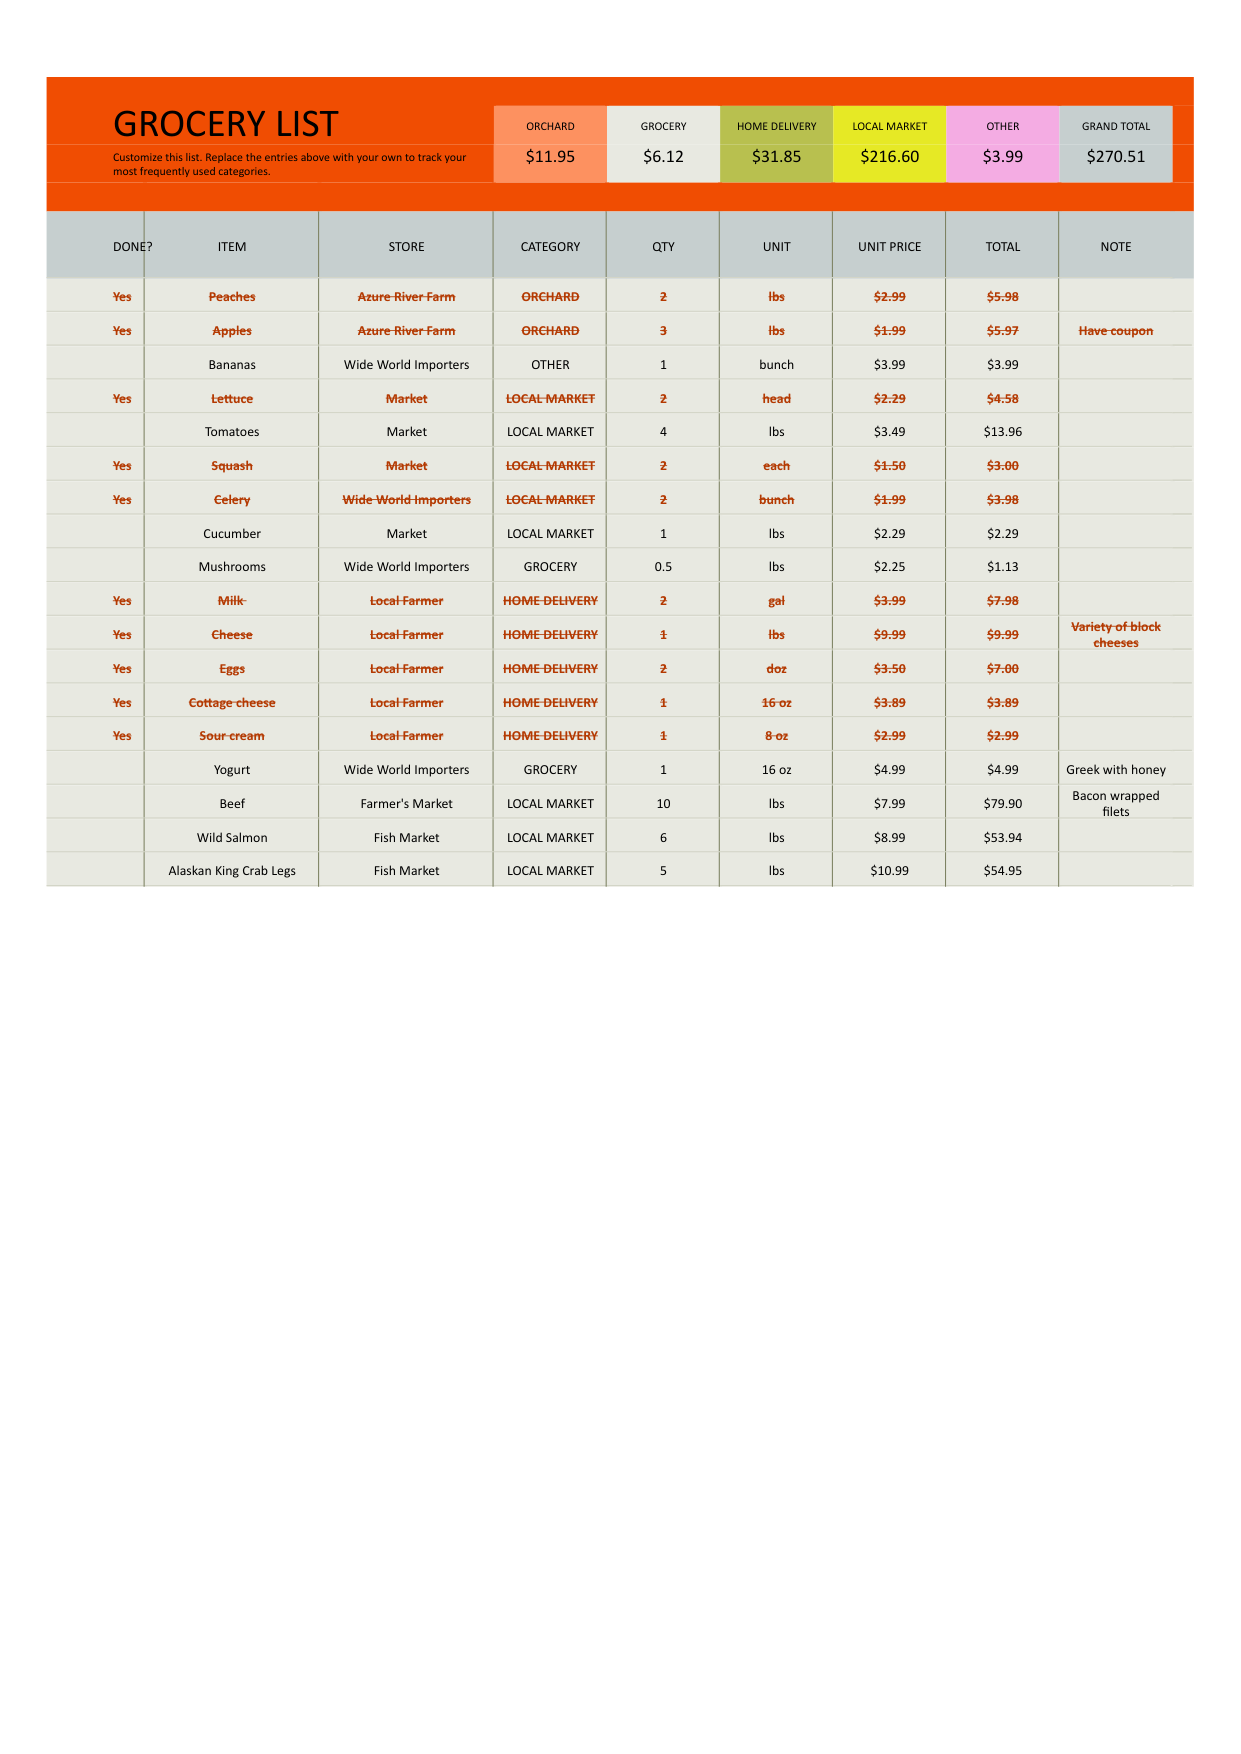
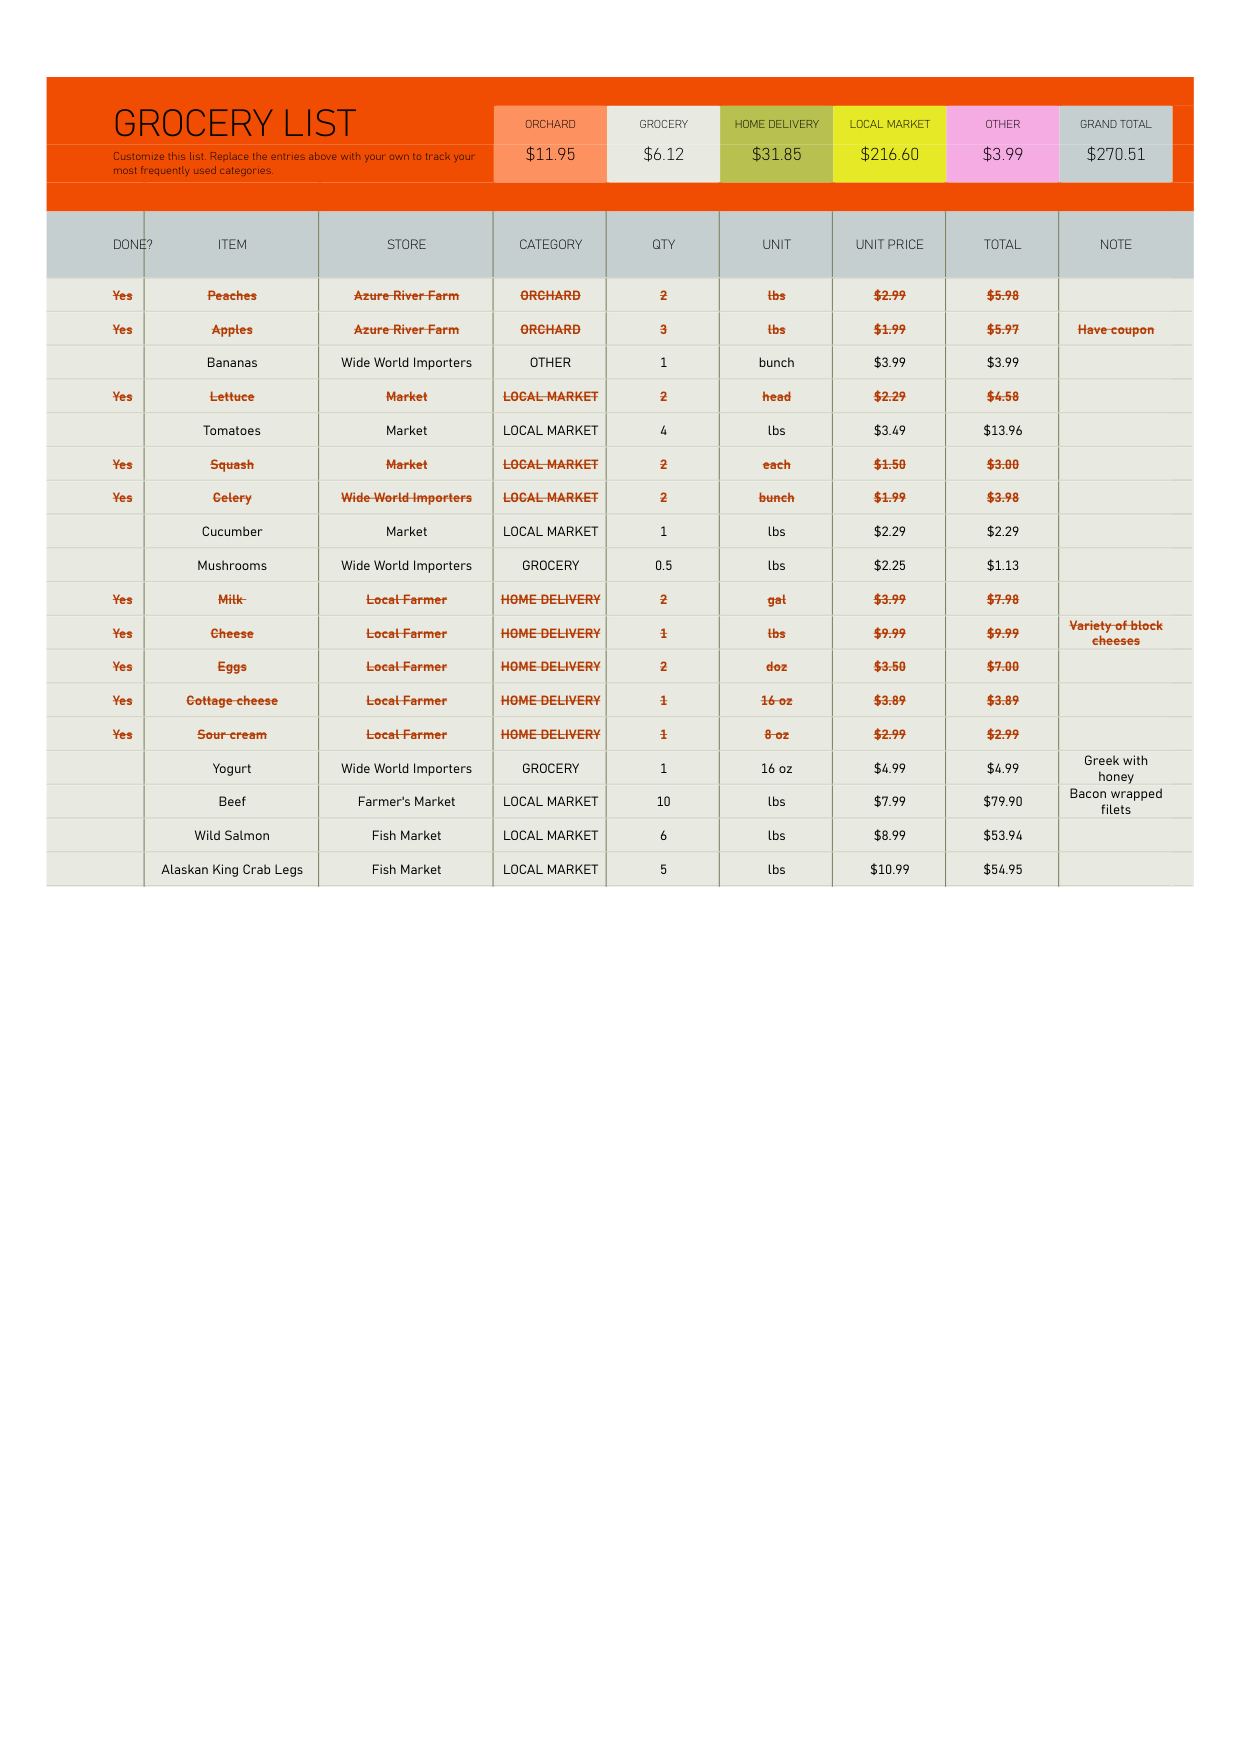
feat(rust): add Grandview font support for XLSX rendering

diff --git a/minipdf-rs/crates/minipdf-cli/src/main.rs b/minipdf-rs/crates/minipdf-cli/src/main.rs
@@ -156,12 +156,14 @@ fn register_fonts_from_dir(font_dir: &Path) -> minipdf::Result<()> {
             .and_then(|ext| ext.to_str())
             .map(|ext| ext.to_ascii_lowercase());
         if matches!(ext.as_deref(), Some("ttf" | "ttc" | "otf")) {
-            let name = path
-                .file_stem()
-                .and_then(|name| name.to_str())
-                .unwrap_or("font")
-                .to_owned();
-            minipdf::register_font(name, fs::read(path)?);
+            let data = fs::read(&path)?;
+            let name = font_alias_from_data(&data).unwrap_or_else(|| {
+                path.file_stem()
+                    .and_then(|name| name.to_str())
+                    .unwrap_or("font")
+                    .to_owned()
+            });
+            minipdf::register_font(name, data);
         }
     }
 
@@ -178,7 +180,94 @@ fn register_system_fallback_fonts() -> minipdf::Result<()> {
             .to_owned();
         minipdf::register_font(name, fs::read(path)?);
     }
+    register_office_cloud_fonts()?;
     Ok(())
+}
+
+#[cfg(target_os = "windows")]
+fn register_office_cloud_fonts() -> minipdf::Result<()> {
+    let Some(local_app_data) = std::env::var_os("LOCALAPPDATA") else {
+        return Ok(());
+    };
+    let cache_root = PathBuf::from(local_app_data)
+        .join("Microsoft")
+        .join("FontCache");
+    let Ok(cache_versions) = fs::read_dir(cache_root) else {
+        return Ok(());
+    };
+    for cloud_root in cache_versions
+        .filter_map(std::result::Result::ok)
+        .map(|entry| entry.path().join("CloudFonts"))
+        .filter(|path| path.is_dir())
+    {
+        for family in ["Grandview", "Grandview Display"] {
+            let directory = cloud_root.join(family);
+            let Ok(entries) = fs::read_dir(directory) else {
+                continue;
+            };
+            for entry in entries.filter_map(std::result::Result::ok) {
+                let path = entry.path();
+                if path.extension().and_then(|ext| ext.to_str()) != Some("ttf") {
+                    continue;
+                }
+                let Ok(data) = fs::read(path) else {
+                    continue;
+                };
+                if let Some(name) = font_alias_from_data(&data) {
+                    minipdf::register_font(name, data);
+                }
+            }
+        }
+    }
+    Ok(())
+}
+
+#[cfg(not(target_os = "windows"))]
+fn register_office_cloud_fonts() -> minipdf::Result<()> {
+    Ok(())
+}
+
+fn font_alias_from_data(data: &[u8]) -> Option<String> {
+    let face = ttf_parser::Face::parse(data, 0).ok()?;
+    let name = |id| {
+        face.names()
+            .into_iter()
+            .find(|name| name.name_id == id && name.is_unicode())
+            .and_then(|name| name.to_string())
+    };
+    let family = name(ttf_parser::name_id::TYPOGRAPHIC_FAMILY)
+        .or_else(|| name(ttf_parser::name_id::FAMILY))?;
+    let subfamily = name(ttf_parser::name_id::TYPOGRAPHIC_SUBFAMILY)
+        .or_else(|| name(ttf_parser::name_id::SUBFAMILY))
+        .unwrap_or_default();
+    Some(build_font_alias(
+        &family,
+        &subfamily,
+        face.is_bold(),
+        face.is_italic(),
+    ))
+}
+
+fn build_font_alias(family: &str, subfamily: &str, bold: bool, italic: bool) -> String {
+    let mut alias = normalize_font_alias(family);
+    if subfamily.to_ascii_lowercase().contains("display") && !alias.contains("display") {
+        alias.push_str("display");
+    }
+    if bold && italic {
+        alias.push('z');
+    } else if bold {
+        alias.push('b');
+    } else if italic {
+        alias.push('i');
+    }
+    alias
+}
+
+fn normalize_font_alias(name: &str) -> String {
+    name.chars()
+        .filter(|character| character.is_ascii_alphanumeric())
+        .flat_map(char::to_lowercase)
+        .collect()
 }
 
 fn system_fallback_font_paths() -> Vec<PathBuf> {
@@ -259,4 +348,25 @@ fn system_fallback_font_paths() -> Vec<PathBuf> {
 
     #[allow(unreachable_code)]
     Vec::new()
+}
+
+#[cfg(test)]
+mod tests {
+    use super::build_font_alias;
+
+    #[test]
+    fn builds_stable_cloud_font_aliases() {
+        assert_eq!(
+            build_font_alias("Grandview", "Regular", false, false),
+            "grandview"
+        );
+        assert_eq!(
+            build_font_alias("Grandview", "Bold", true, false),
+            "grandviewb"
+        );
+        assert_eq!(
+            build_font_alias("Grandview", "Display", false, false),
+            "grandviewdisplay"
+        );
+    }
 }

diff --git a/minipdf-rs/crates/minipdf/src/xlsx.rs b/minipdf-rs/crates/minipdf/src/xlsx.rs
@@ -2191,6 +2191,9 @@ fn excel_pdf_font_size(font_name: Option<&str>, size: f32) -> f32 {
         "corbel" => size * 0.962,
         "franklin gothic medium" if size >= 30.0 => size * 0.984,
         "franklin gothic medium" => size * 0.93,
+        "grandview" => size * 0.956,
+        "grandview display" if size >= 30.0 => size * 0.947,
+        "grandview display" => size * 0.956,
         "palatino linotype" => size * 0.967,
         "verdana" => size * 0.96,
         _ => size,
@@ -2201,6 +2204,8 @@ fn xlsx_preferred_font(font_name: Option<&str>) -> Option<&'static str> {
     match font_name.unwrap_or_default().to_ascii_lowercase().as_str() {
         "corbel" => Some("corbel"),
         "franklin gothic medium" => Some("framd"),
+        "grandview" => Some("grandview"),
+        "grandview display" => Some("grandviewdisplay"),
         "palatino linotype" => Some("bookos"),
         "verdana" => Some("verdana"),
         _ => None,
@@ -3743,10 +3748,10 @@ fn render_xlsx_row(
                 text.cell_y + (text.cell_height - block_height).max(0.0) / 2.0 + baseline_offset
             }
             VerticalAlignment::Bottom => text.cell_y + baseline_offset.max(1.0),
-        } + if text.style.preferred_font == Some("framd") {
-            0.9
-        } else {
-            0.0
+        } + match text.style.preferred_font {
+            Some("framd") => 0.9,
+            Some("grandview" | "grandviewdisplay") => 0.6,
+            _ => 0.0,
         };
         let line_count = text.lines.len();
         if let Some(value) = text.accounting_value {

diff --git a/minipdf-rs/crates/minipdf/src/pdf.rs b/minipdf-rs/crates/minipdf/src/pdf.rs
@@ -630,6 +630,9 @@ fn font_preference(
             ("verdana", true, true) => "verdanaz",
             ("verdana", true, false) => "verdanab",
             ("verdana", false, true) => "verdanai",
+            ("grandview", true, true) => "grandviewz",
+            ("grandview", true, false) => "grandviewb",
+            ("grandview", false, true) => "grandviewi",
             _ => preferred.as_str(),
         };
         if name == preferred_variant {
